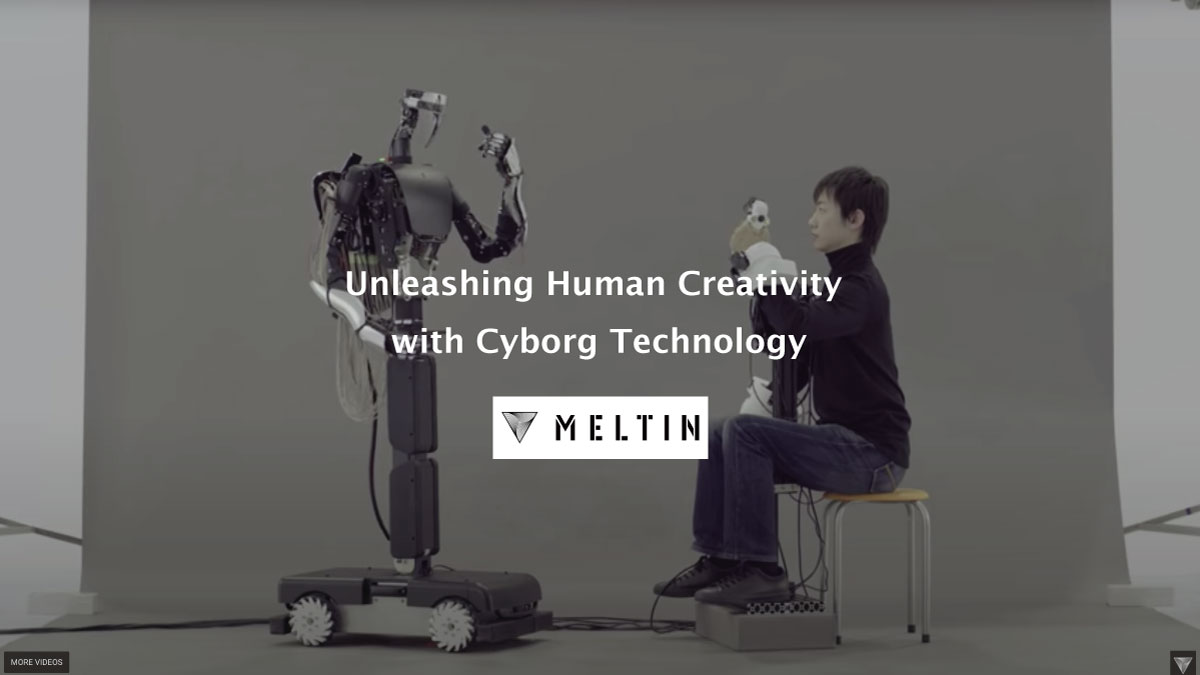
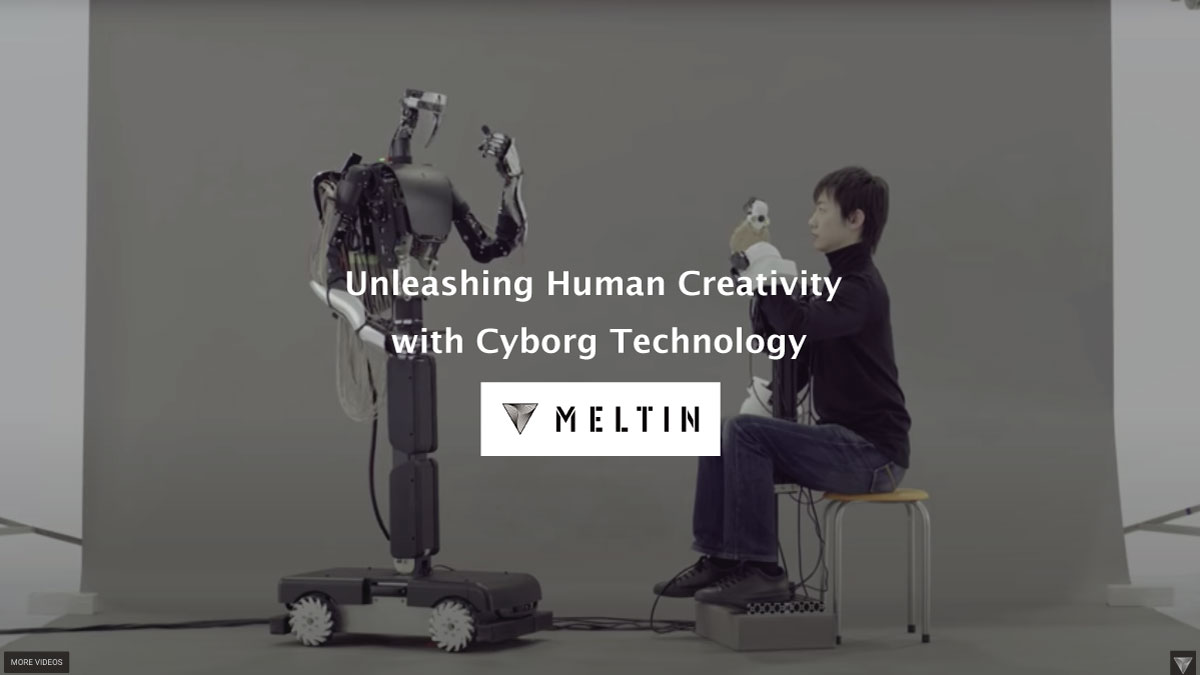
fix: img & cover

Changed region(s): [[0.4008, 0.56, 0.6167, 0.6844]]

diff --git a/src/md/en/blog/kasuya-meltin.md b/src/md/en/blog/kasuya-meltin.md
@@ -20,13 +20,13 @@ translator2: ""
 
 Founded in 2013, MELTIN MMI is [a Japanese cyborg venture that has made a name for itself around the world](https://finders.me/articles.php?id=1176), and is planning to launch a new market for [robotic neurorehabilitation devices for the hand](https://www.meltin.jp/en/products/medical/finger-rehabilitation/) by the end of 2022.
 
-In this interview, we talked to [Masahiro Kasuya](https://www.linkedin.com/in/masahiro-kasuya-02970349/), CEO of MELTIN MMI, about his ambitions in life, experience founding MELTIN MMI, and thoughts regarding the future of his work including space exploration.
+In this interview, we talked to [Masahiro Kasuya](https://www.linkedin.com/in/masahiro-kasuya-02970349/) (Mark), CEO of MELTIN MMI, about his ambitions in life, experience founding MELTIN MMI, and thoughts regarding the future of his work including space exploration.
 
 &nbsp;
 
 ## The root is the desire to understand everything in this universe
 
-Born in Saitama, Japan, in 1988, Masahiro has been aware of the limits of humanity since the age of three. At the **early age of ten, he saw potential in combining the fields of medicine and engineering**.
+Born in Saitama, Japan, in 1988, Mark has been aware of the limits of humanity since the age of three. At the **early age of ten, he saw potential in combining the fields of medicine and engineering**.
 
 > Some of my earliest thoughts included questions like, why does this world exist? Why do I exist? Or rather, what is this world?
 > Since we did not have the Internet at that time, I read illustrated books and found that the earth seemed to be in the universe.
@@ -35,7 +35,7 @@ Born in Saitama, Japan, in 1988, Masahiro has been aware of the limits of humani
 
 &nbsp;
 
-At 14, Masahiro had already begun researching cyborg technology.
+At 14, Mark had already begun researching cyborg technology.
 
 > In junior high, I wanted to experiment using invasive electrodes, but after some research and upon reaching high school, realized that **invasive technologies are hurdled, especially with ethical considerations.**
 
@@ -45,7 +45,7 @@ He then entered the School of Science and Engineering at Waseda University with 
 
 &nbsp;
 
-Why did Masahiro see the potential in the fusion of medicine and engineering and why did he focus on EMG?
+Why did Mark see the potential in the fusion of medicine and engineering and why did he focus on EMG?
 
 > Although I would have liked to get signals directly from the brain, **I would have to verify that the electrodes are working correctly, and justify that the signals read from these electrodes are actually spawning from the brain. By starting with EMG, I can concentrate on the analysis and algorithms with decent confidence that the signals are being obtained correctly.**
 
@@ -56,7 +56,7 @@ Why did Masahiro see the potential in the fusion of medicine and engineering and
 
 ## The Founding of MELTIN MMI and the Impact of MEKTANT-α
 
-In 2011, Masahiro received the Robotics Society of Japan's Research Encouragement Award, given to researchers under 35 years old who have significant contributions to the field of robotics. **Then in 2013, he founded MELTIN MMI with the aim of commercializing cyborg technology.**
+In 2011, Mark received the Robotics Society of Japan's Research Encouragement Award, given to researchers under 35 years old who have significant contributions to the field of robotics. **Then in 2013, he founded MELTIN MMI with the aim of commercializing cyborg technology.**
 
 After completing his graduate studies, he was a JSPS Research Fellow, and in 2016, he received his PhD in robotics and artificial intelligence engineering from the University of Electro-Communications, Graduate School of Information Science and Engineering, Intelligent Machinery Engineering.
 
@@ -99,7 +99,7 @@ Neurorehabilitation is a rehabilitation method based on neuroscience that has be
 
 &nbsp;
 
-What do you see as the biggest technological challenge in this area in the future? Masahiro claims that the key is obviously in analysis techniques but even more so in the **interactive interface**.
+What do you see as the biggest technological challenge in this area in the future? Mark claims that the key is obviously in analysis techniques but even more so in the **interactive interface**.
 
 > The output alone is less meaningful than providing direct feedback to the user. Creating this feedback loop is essential, and the neurorehabilitation device we are developing incorporates just that.
 
@@ -110,7 +110,7 @@ What do you see as the biggest technological challenge in this area in the futur
 
 &nbsp;
 
-He also envisions entering the space industry in the 2040s. Masahiro’s vision is on an extraterrestrial scale, but first, what are some of the difficulties he faces in developing his business on a global scale?
+He also envisions entering the space industry in the 2040s. Mark's vision is on an extraterrestrial scale, but first, what are some of the difficulties he faces in developing his business on a global scale?
 
 > MELTIN MMI has yet to create a commoditized product, so our immediate goal is to sell a product.
 
